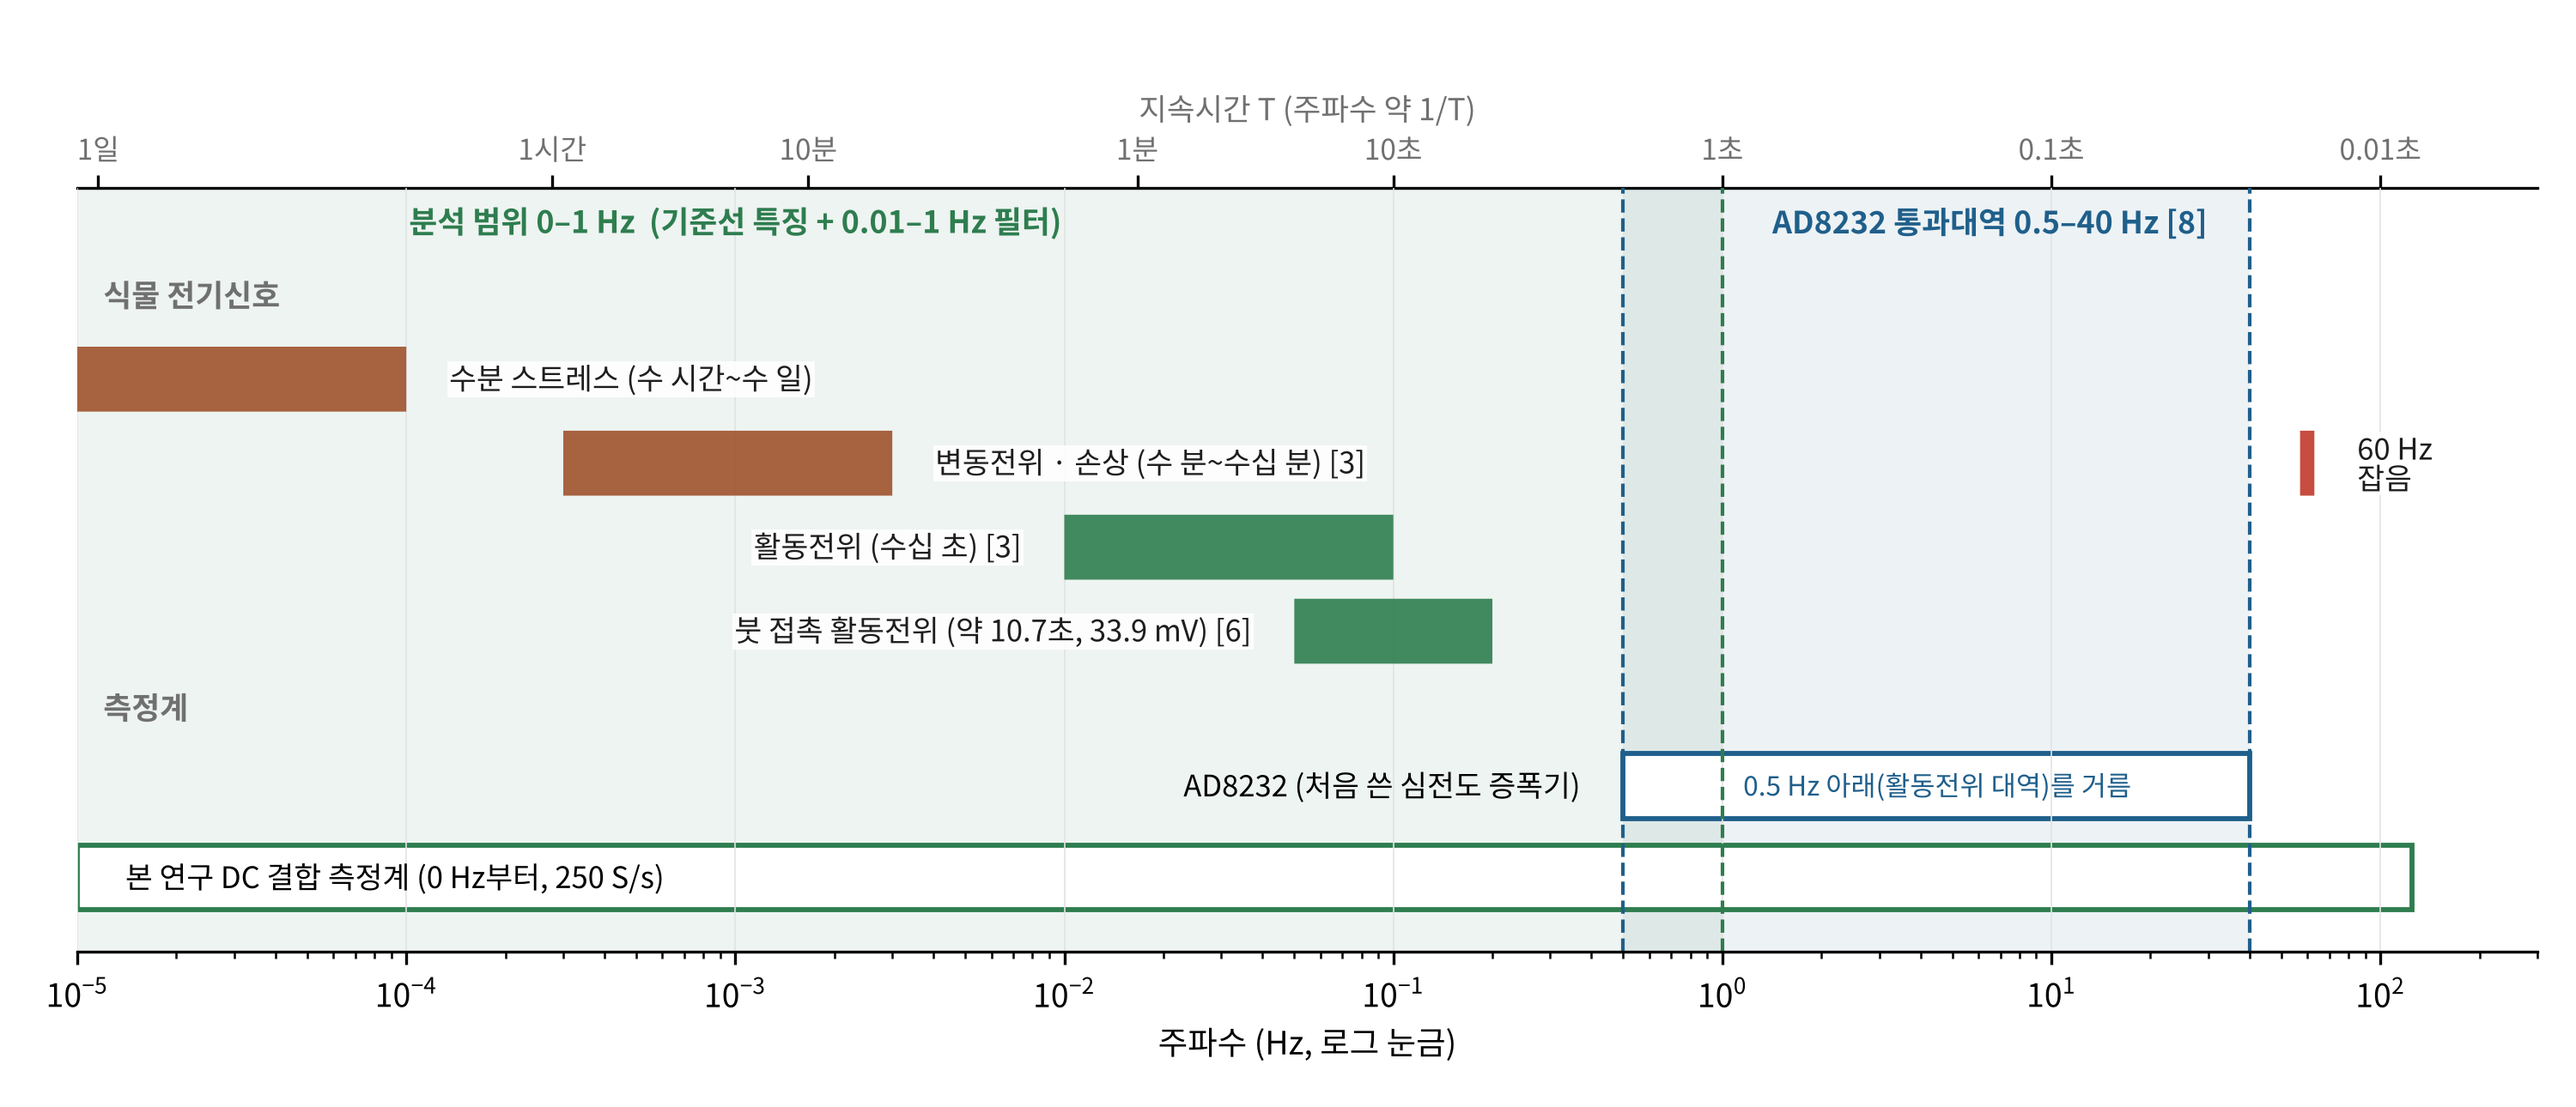
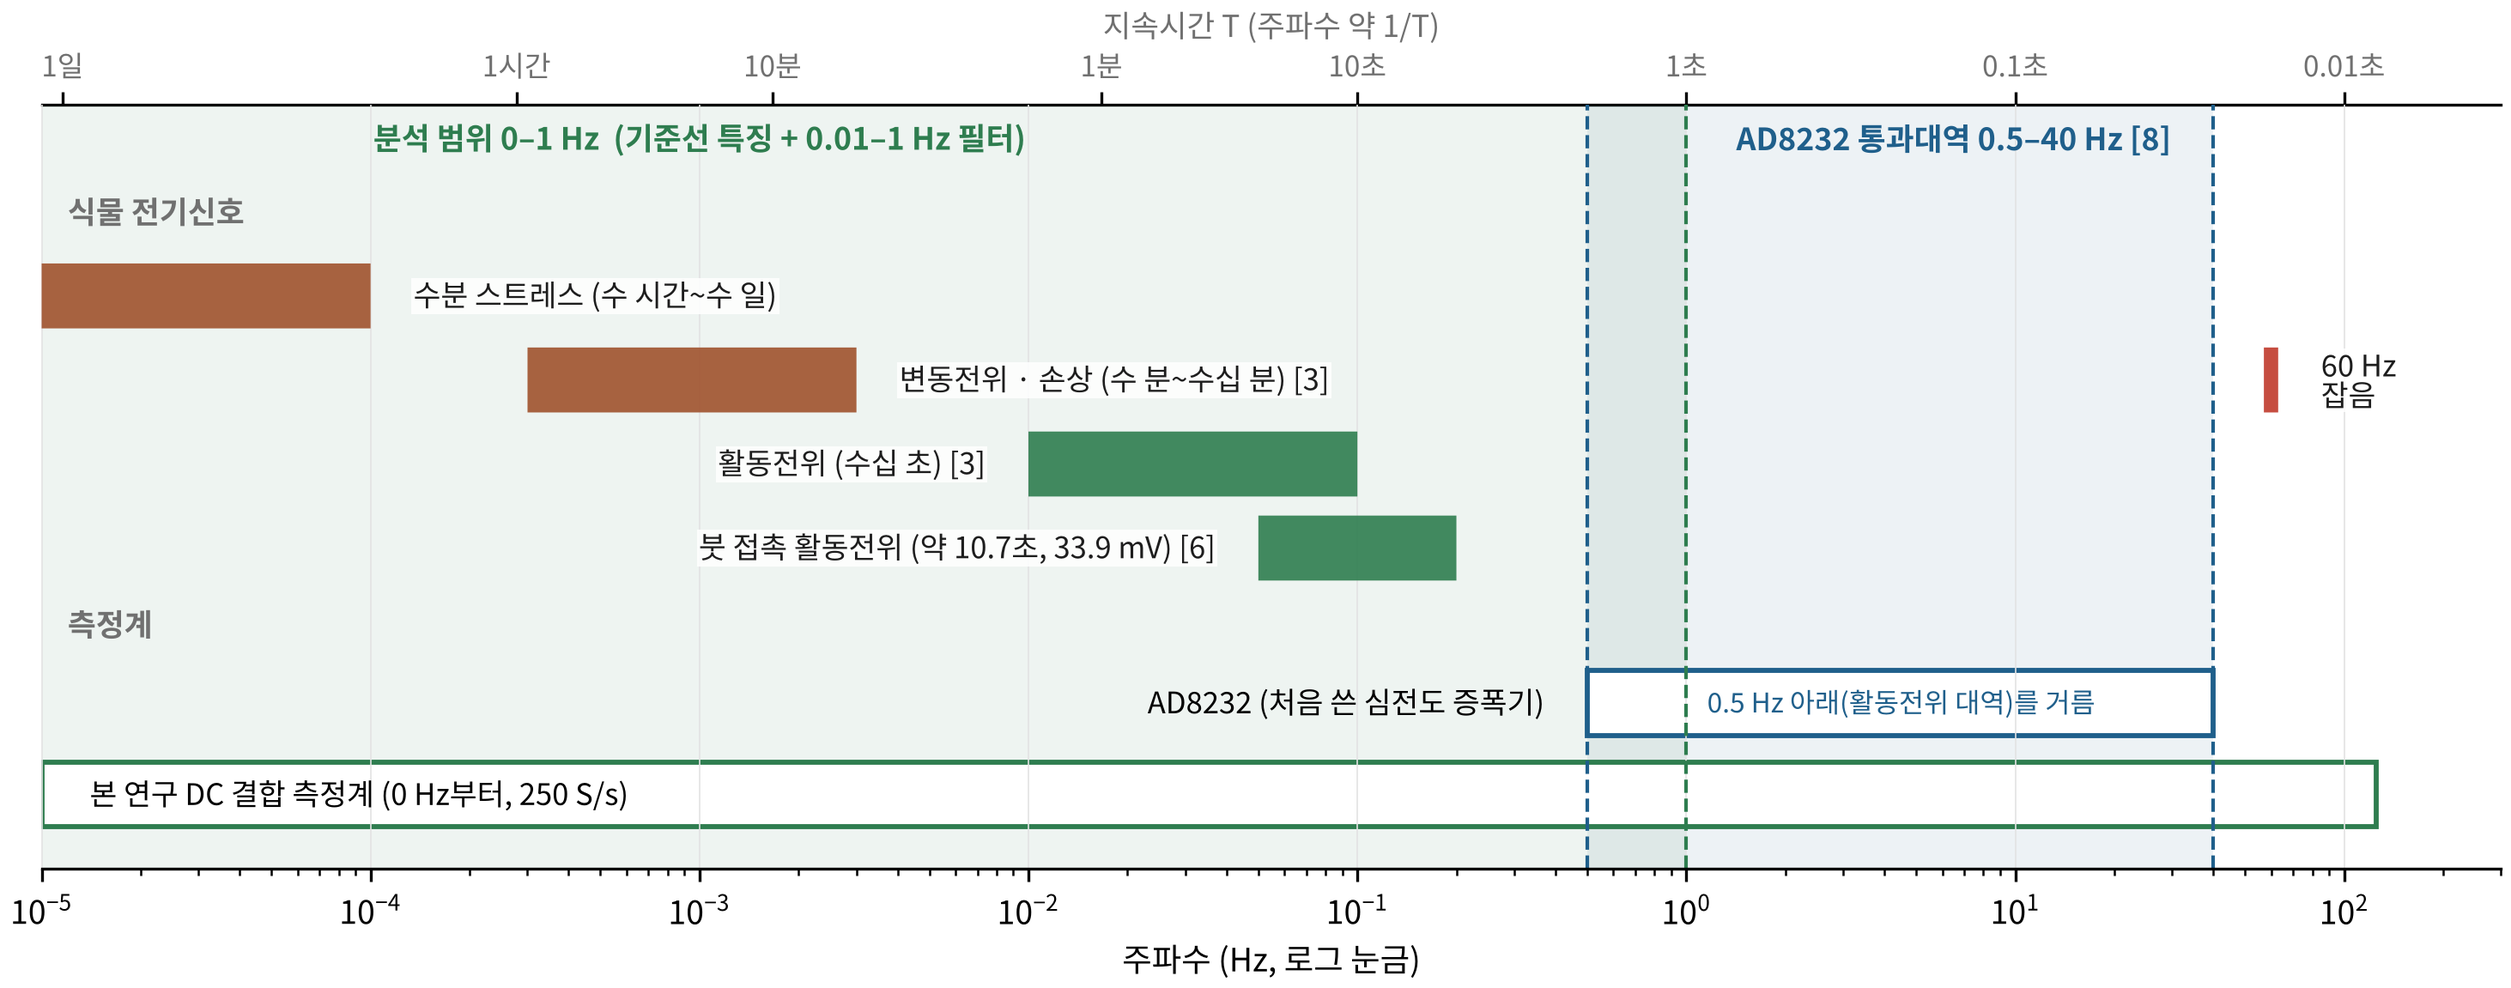
그림1·2·4: 바깥 여백 줄임(흰 배경, 빈 테두리 잘라냄)
Claude-Session: https://claude.ai/code/session_01JhQkgfdzNkTpKPSBfVdw6o

diff --git a/report/stim/fig_newplant.py b/report/stim/fig_newplant.py
@@ -42,5 +42,5 @@ ax[2].set_xlim(0, 23); ax[2].set_xticks(range(0, 24, 2))
 for a in ax:
     a.grid(True, which="major", color="#dddddd", lw=0.5)
 fig.tight_layout()
-fig.savefig(sys.argv[1], dpi=400)
+fig.savefig(sys.argv[1], dpi=400, facecolor="white", bbox_inches="tight", pad_inches=0.04)
 print("saved", sys.argv[1])

diff --git a/report/stim/fig_band2.py b/report/stim/fig_band2.py
@@ -67,4 +67,4 @@ ax.text(4.5, 2.17, "0.5 Hz 아래(활동전위 대역)를 거름", ha="center", 
 
 
 out = os.path.join(os.path.dirname(__file__), "..", "FIG_BAND2.png")
-fig.savefig(out, facecolor="white"); print(out)
+fig.savefig(out, facecolor="white", bbox_inches="tight", pad_inches=0.04); print(out)
